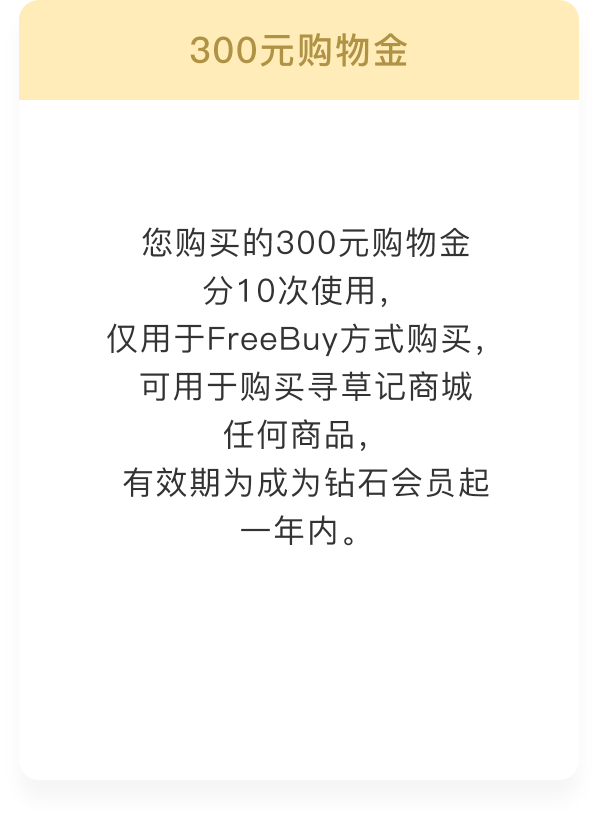
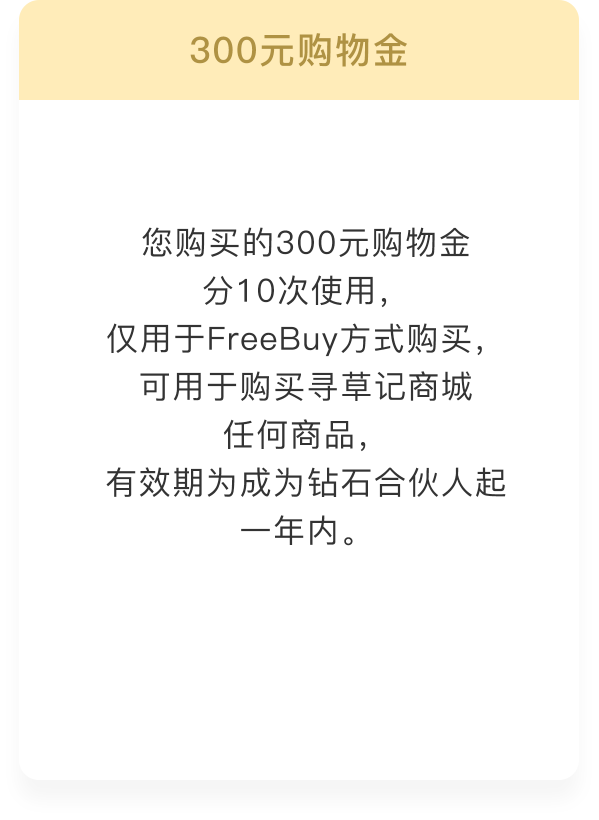
10.28
新增钻石会员微信分享

Changed region(s): [[0.1803, 0.5488, 0.8414, 0.6098]]

diff --git a/src/view/activity/dismond.vue b/src/view/activity/dismond.vue
@@ -76,12 +76,40 @@
 </template>
 
 <script>
+import wxApi from "../../api/wx";
+import wx from 'weixin-js-sdk';
 export default {
   data() {
     return {
       showBuy: false,
       showTec: false
     };
+  },
+  mounted() {
+
+    const data = {
+      url: window.location.href
+    }
+    wxApi.weChatSharingConfig(data).then(res => {
+      if (res.status == 200 && res.data.messageCode == "MSG_1001") {
+        wx.config({
+          debug: false, // 开启调试模式,调用的所有api的返回值会在客户端alert出来，若要查看传入的参数，可以在pc端打开，参数信息会通过log打出，仅在pc端时才会打印。
+          ...res.data.content,
+          jsApiList: ["updateAppMessageShareData"] // 必填，需要使用的JS接口列表
+        });
+        wx.ready(function () {
+          wx.updateAppMessageShareData({
+            title: '【钻石合伙人招募令】', // 分享标题
+            desc: '加入寻草记～共赢未来，带你提前实现财富自由！！！', // 分享描述
+            link: window.location.href, // 分享链接，该链接域名或路径必须与当前页面对应的公众号JS安全域名一致
+            imgUrl: 'https://xuncaoji.yzsaas.cn/pop_logo.png', // 分享图标
+            success: function () {
+              // 设置成功
+            }
+          })
+        });
+      }
+    })
   },
   methods: {
     toInfo(i) {
@@ -97,7 +125,8 @@ img {
 }
 .content {
   background-image: linear-gradient(#ff2644 200px, #ffffff 1px);
-  min-height: 97vh;
+  min-height: 100vh;
+  padding-bottom: 1rem;
 }
 
 .title {

diff --git a/src/until/wx.js b/src/until/wx.js
@@ -3,7 +3,7 @@ import wxApi from '@/api/wx'
 import params from '@/conf/params'
 const jsApiList = ['onMenuShareAppMessage', 'onMenuShareTimeline', 'onMenuShareQQ', 'onMenuShareWeibo', 'updateAppMessageShareData']
 // 要用到微信API
-function getJSSDK (url, dataForWeixin, mode) {
+function getJSSDK(url, dataForWeixin, mode) {
   const data = {
     url: url
   }
@@ -44,8 +44,8 @@ function getJSSDK (url, dataForWeixin, mode) {
         desc: dataForWeixin.desc,
         link: params.testEnvironmentHost + dataForWeixin.linkurl,
         imgUrl: dataForWeixin.img,
-        trigger: function trigger (res) { },
-        success: function success (res) {
+        trigger: function trigger(res) { },
+        success: function success(res) {
           const data = {
             mode: mode
           }
@@ -54,10 +54,10 @@ function getJSSDK (url, dataForWeixin, mode) {
             // alert(res.data.content)
           })
         },
-        cancel: function cancel (res) {
+        cancel: function cancel(res) {
           // alert('分享取消3333')
         },
-        fail: function fail (res) {
+        fail: function fail(res) {
           // alert('分享失败3333')
         }
       })

diff --git a/index.html b/index.html
@@ -9,6 +9,7 @@
   <title>寻草记</title>
   <link rel="stylesheet" href="https://res.wx.qq.com/open/libs/weui/1.1.3/weui.min.css" />
   <script type="text/javascript" src="https://res.wx.qq.com/open/libs/weuijs/1.1.4/weui.min.js"></script>
+  <!-- <script src="https://res.wx.qq.com/open/js/jweixin-1.4.0.js"></script> -->
   <!--<script type="text/javascript" src="http://res.wx.qq.com/open/js/jweixin-1.4.0.js"></script>-->
   <style>
     /*img{ pointer-events: none; }*/

diff --git a/src/main.js b/src/main.js
@@ -19,6 +19,8 @@ Vue.use(Vant);
 Vue.config.productionTip = false;
 router.beforeEach((to, from, next) => {
   let href = window.location.href;
+  console.log(to.fullPath);
+
   if (
     href.indexOf("groupmessage") > -1 ||
     href.indexOf("singlemessage") > -1 ||

diff --git a/src/view/home/ZeroShopDetail.vue b/src/view/home/ZeroShopDetail.vue
@@ -1224,6 +1224,7 @@ export default {
   width: 100%;
   background: #f4f4f4;
   margin-bottom: 1rem;
+  min-height: 100vh;
   .swipe {
     width: 100%;
     height: 7.5rem;
